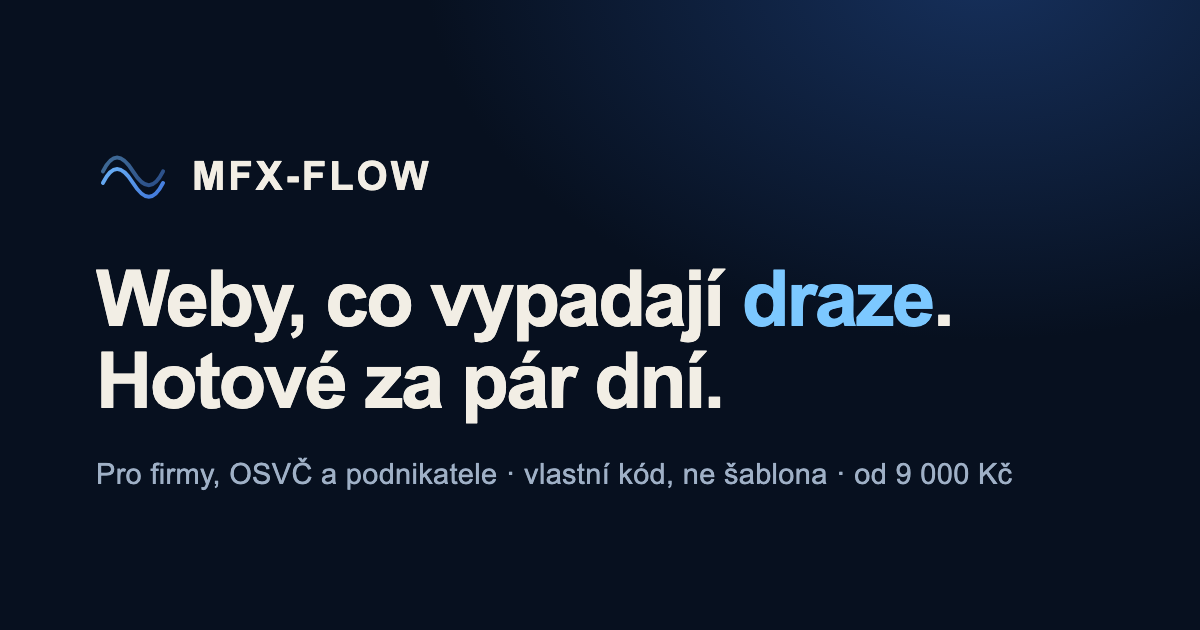
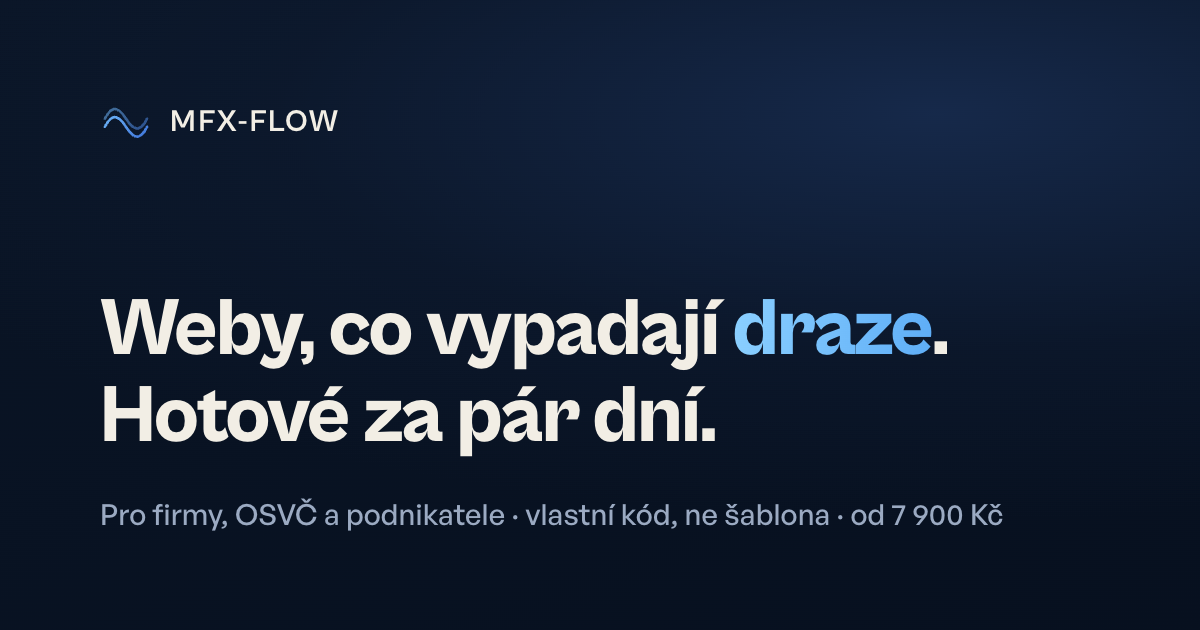
og: cena v náhledovém obrázku 9 000 → 7 900 Kč + cache-bust ?v=2
Cena byla vypálená přímo v assets/og.png (Facebook náhled). Přegenerován
obrázek s aktuální cenou 7 900 Kč, og:image/twitter:image dostaly ?v=2,
aby si Facebook/Twitter stáhli novou verzi.

diff --git a/affiliate.html b/affiliate.html
@@ -19,13 +19,13 @@
 <meta property="og:title" content="Affiliate — Doporuč a vydělej 15 % | MFX-FLOW" />
 <meta property="og:description" content="Doporuč MFX-FLOW někomu, kdo potřebuje web. Když zakázku uzavřu, pošlu ti 15 % z první zakázky." />
 <meta property="og:url" content="https://www.mfx-flow.com/affiliate" />
-<meta property="og:image" content="https://www.mfx-flow.com/assets/og.png" />
+<meta property="og:image" content="https://www.mfx-flow.com/assets/og.png?v=2" />
 <meta property="og:image:width" content="1200" />
 <meta property="og:image:height" content="630" />
 <meta name="twitter:card" content="summary_large_image" />
 <meta name="twitter:title" content="Affiliate — Doporuč a vydělej 15 % | MFX-FLOW" />
 <meta name="twitter:description" content="Doporuč MFX-FLOW někomu, kdo potřebuje web. Když zakázku uzavřu, pošlu ti 15 % z první zakázky." />
-<meta name="twitter:image" content="https://www.mfx-flow.com/assets/og.png" />
+<meta name="twitter:image" content="https://www.mfx-flow.com/assets/og.png?v=2" />
 <script type="application/ld+json">
 {"@context": "https://schema.org", "@type": "BreadcrumbList", "itemListElement": [{"@type": "ListItem", "position": 1, "name": "Domů", "item": "https://www.mfx-flow.com/"}, {"@type": "ListItem", "position": 2, "name": "Affiliate", "item": "https://www.mfx-flow.com/affiliate"}]}
 </script>

diff --git a/kurzy.html b/kurzy.html
@@ -19,13 +19,13 @@
 <meta property="og:title" content="Kurzy — Postav si web s AI | MFX-FLOW" />
 <meta property="og:description" content="Připravujeme kurz, ve kterém se naučíš stavět weby pomocí AI nástrojů. Zapiš se do waitlistu." />
 <meta property="og:url" content="https://www.mfx-flow.com/kurzy" />
-<meta property="og:image" content="https://www.mfx-flow.com/assets/og.png" />
+<meta property="og:image" content="https://www.mfx-flow.com/assets/og.png?v=2" />
 <meta property="og:image:width" content="1200" />
 <meta property="og:image:height" content="630" />
 <meta name="twitter:card" content="summary_large_image" />
 <meta name="twitter:title" content="Kurzy — Postav si web s AI | MFX-FLOW" />
 <meta name="twitter:description" content="Připravujeme kurz, ve kterém se naučíš stavět weby pomocí AI nástrojů. Zapiš se do waitlistu." />
-<meta name="twitter:image" content="https://www.mfx-flow.com/assets/og.png" />
+<meta name="twitter:image" content="https://www.mfx-flow.com/assets/og.png?v=2" />
 <script type="application/ld+json">
 {"@context": "https://schema.org", "@type": "BreadcrumbList", "itemListElement": [{"@type": "ListItem", "position": 1, "name": "Domů", "item": "https://www.mfx-flow.com/"}, {"@type": "ListItem", "position": 2, "name": "Kurzy", "item": "https://www.mfx-flow.com/kurzy"}]}
 </script>

diff --git a/index.html b/index.html
@@ -20,13 +20,13 @@
 <meta property="og:title" content="MFX-FLOW — Weby pro firmy a podnikatele za pár dní" />
 <meta property="og:description" content="Nudný web = ztracené poptávky. Postavím ti web na míru, který z Googlu tahá zákazníky — za pár dní, od 7 900 Kč." />
 <meta property="og:url" content="https://www.mfx-flow.com/" />
-<meta property="og:image" content="https://www.mfx-flow.com/assets/og.png" />
+<meta property="og:image" content="https://www.mfx-flow.com/assets/og.png?v=2" />
 <meta property="og:image:width" content="1200" />
 <meta property="og:image:height" content="630" />
 <meta name="twitter:card" content="summary_large_image" />
 <meta name="twitter:title" content="MFX-FLOW — Weby pro firmy a podnikatele za pár dní" />
 <meta name="twitter:description" content="Nudný web = ztracené poptávky. Postavím ti web na míru, který z Googlu tahá zákazníky — za pár dní, od 7 900 Kč." />
-<meta name="twitter:image" content="https://www.mfx-flow.com/assets/og.png" />
+<meta name="twitter:image" content="https://www.mfx-flow.com/assets/og.png?v=2" />
 
 <script type="application/ld+json">
 {
